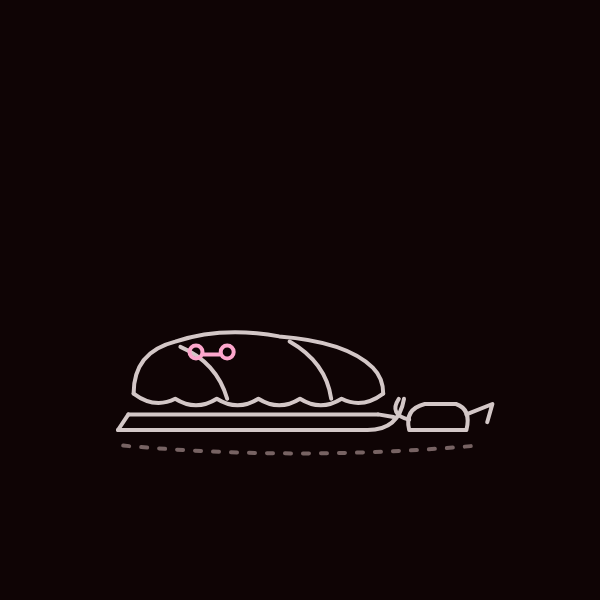
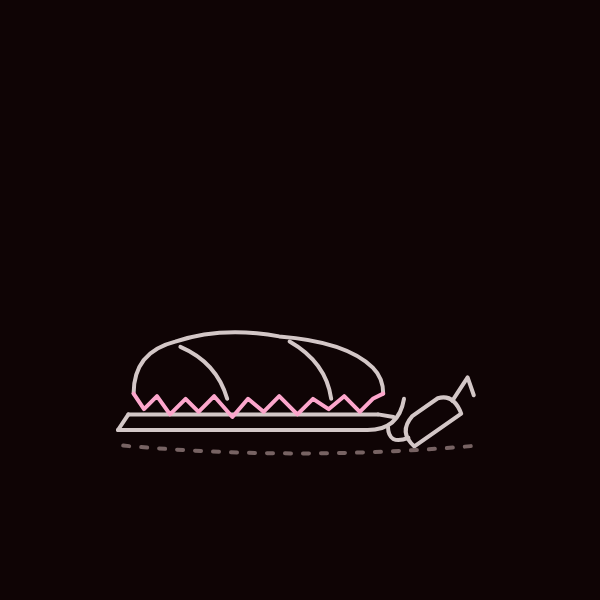
fix(thrones): draw Othor burned from his first drawing
Both media tell his corpse rising and Jon burning it in the episode and
chapter he opens in (The Pointy End, episode 8; Jon VII, site chapter
53), so the burnt cloak on the sled is his first drawing and the chapter
61 stage goes. The #1295 stage count in the architecture paragraph and
the generated counts follow.

Changed region(s): [[0.21, 0.63, 0.84, 0.75], [0.3, 0.57, 0.39, 0.6]]

diff --git a/src/data/series/game-of-thrones/art/wall.ts b/src/data/series/game-of-thrones/art/wall.ts
@@ -628,9 +628,6 @@ const SLED: Stroke[] = [
 const DRAPED_CLOAK = {
   d: 'M16 136 Q16 120 32 116 Q50 110 72 114 Q98 116 108 126 Q112 130 112 136',
 }
-const DRAPE_HEM: Stroke = {
-  d: 'M16 136 Q24 142 32 138 Q40 143 48 138 Q56 143 64 138 Q72 143 80 138 Q88 143 96 138 Q104 142 112 136',
-}
 const DRAPE_FOLDS: Stroke = {
   d: 'M34 118 Q48 124 52 138 M76 116 Q90 124 92 138',
   role: 'soft',
@@ -642,21 +639,22 @@ const LAMP: Stroke[] = [
 ]
 
 /**
- * Othor: his black cloak drawn over his body on a sled, an unlit lamp
- * beside it. Both media open him when the rangers bring him back dead, in
- * "The Pointy End" (episode 8) and Jon VII (chapter 53), so the drawing
- * shows what he left. The accent is the clasp.
+ * Othor: his black cloak drawn over his body on a sled, its hem burnt
+ * ragged, the lamp knocked over. Both media open him when the rangers bring
+ * him back dead, and both tell the same night his corpse rising and Jon
+ * burning it in the Lord Commander's rooms: "The Pointy End" (episode 8)
+ * and Jon VII (chapter 53). The drawing shows what that leaves. The accent
+ * is the burnt hem.
  */
-const SLED_BODY: Stroke[] = [
+const BURNT_CLOAK: Stroke[] = [
   ...SLED,
   DRAPED_CLOAK,
-  DRAPE_HEM,
-  DRAPE_FOLDS,
   {
-    d: `${circle(40, 120, 2.5)} ${circle(52, 120, 2.5)} M42.5 121 H49.5`,
+    d: 'M16 136 L20 142 L25 137 L30 144 L36 138 L41 143 L47 137 L54 145 L60 138 L66 143 L72 137 L79 144 L85 138 L91 142 L97 137 L103 143 L108 138 L112 136',
     role: 'accent',
   },
-  ...LAMP,
+  DRAPE_FOLDS,
+  ...moved(LAMP, 'rotate(-35 133 150)'),
   shadow(80, 156, 68),
 ]
 
@@ -682,7 +680,7 @@ export const WALL_DRAWINGS = {
   'othell-yarwyck': MASON_HAMMER,
   'bowen-marsh': LEDGER,
   'jaremy-rykker': SHEATHED_SWORD,
-  'othor': SLED_BODY,
+  'othor': BURNT_CLOAK,
 } satisfies Drawings
 
 /** The Night's Watch drawn again later in the story. */
@@ -938,28 +936,6 @@ export const wallRedrawn: Redrawings = {
         ),
         ...moved(RANGER_SCABBARD, 'translate(-2 40) rotate(-98 80 104)'),
         shadow(80, 156, 64),
-      ],
-    },
-  ],
-  'othor': [
-    // The same cloak, its hem burnt ragged, the lamp knocked over: he rises
-    // as a wight and Jon burns him in the Lord Commander's rooms in Jon VIII
-    // (chapter 61). The show tells it in his threshold episode, so the stage
-    // is the book's alone. The accent moves to the burnt hem.
-    {
-      episode: 8,
-      chapter: 61,
-      source: 'chapter',
-      value: [
-        ...SLED,
-        DRAPED_CLOAK,
-        {
-          d: 'M16 136 L20 142 L25 137 L30 144 L36 138 L41 143 L47 137 L54 145 L60 138 L66 143 L72 137 L79 144 L85 138 L91 142 L97 137 L103 143 L108 138 L112 136',
-          role: 'accent',
-        },
-        DRAPE_FOLDS,
-        ...moved(LAMP, 'rotate(-35 133 150)'),
-        shadow(80, 156, 68),
       ],
     },
   ],

diff --git a/src/server/archive/thronesSeason1.test.ts b/src/server/archive/thronesSeason1.test.ts
@@ -1413,7 +1413,7 @@ describe.each([
  * Heddle's the book's alone; and the later deaths of #1242, Stevron Frey's
  * and Hoster Tully's the book's alone; and the Night's Watch's of #1295,
  * Grenn's, Pypar's, Othell Yarwyck's and Bowen Marsh's the show's alone,
- * Gared's, Dareon's, Jaremy Rykker's and Othor's the book's alone, with
+ * Gared's, Dareon's and Jaremy Rykker's the book's alone, with
  * the mutiny against Jon), Barristan's thrown sword, Syrio's snapped
  * blade, and the reveals of Jorah's master, Aemon's house and Mirri's blood
  * magic, the Winterfell audit's deaths, returns, crown, Reek and Needle
@@ -1689,7 +1689,6 @@ const STAGES: {
   { id: 'bowen-marsh', episode: 50, chapter: 341 },
   { id: 'bowen-marsh', episode: 53, chapter: 344, source: 'episode', stage: 1 },
   { id: 'jaremy-rykker', episode: 8, chapter: 61, source: 'chapter' },
-  { id: 'othor', episode: 8, chapter: 61, source: 'chapter' },
   // The leads and the Essos cast redrawn from the drawing audit (#1292).
   { id: 'eddard-stark', episode: 31, chapter: 204, stage: 1 },
   { id: 'jon-snow', episode: 50, chapter: 341 },

diff --git a/src/test/series.ts b/src/test/series.ts
@@ -147,8 +147,9 @@ const EXPECTED: Record<string, Expected> = {
   // Landing, riverlands and Vale stories (#1362): 406 stories and 695
   // timelines. Chronicles, timelines and statuses counted 2026-11-20, after
   // the Winterfell and northern stories (#1361): 566 stories, 734 timelines
-  // and 260 statuses. Statuses counted 2026-11-21, after Othor's book gate
-  // moved to Jon VII and his alive entry went (#1425): 259.
+  // and 260 statuses. Statuses and timelines counted 2026-11-21, after Othor's
+  // book gate moved to Jon VII, his alive entry and his redrawings went
+  // (#1425): 259 statuses and 733 timelines.
   'game-of-thrones': {
     kinds: [
       'affiliation',
@@ -172,7 +173,7 @@ const EXPECTED: Record<string, Expected> = {
       linkedOrigins: 0,
       places: 60,
       statuses: 259,
-      timelines: 734,
+      timelines: 733,
       visits: 0,
     },
     namesSaidEarly: true,

diff --git a/docs/architecture.md b/docs/architecture.md
@@ -289,7 +289,7 @@ cast's are in `art/wall.ts` and `art/essos.ts` (#1052), with twenty, four of
 them the deaths of Jeor, Aemon, Alliser and Yoren from the drawing audit
 (#1290), six from the drawing audit (#1296) and four those of Jorah, Irri,
 Doreah and Rakharo (#1292), and thirteen more of the Watch's in `art/wall.ts`
-(#1295), with twelve, the places' are in `art/places.ts` (#1053), with fourteen
+(#1295), with ten, the places' are in `art/places.ts` (#1053), with fourteen
 stages for the damage and rebuilding later seasons and books give (#1236), the
 northern household's are in `art/north.ts` (#1054), with fifteen, twelve of them
 the deaths, Roose Bolton's allegiance and Jeyne Poole's false identity from the
@@ -489,7 +489,7 @@ checks this block.
 | Characters        | 148                                                     |
 | Places            | 60                                                      |
 | Saga modules      | 1                                                       |
-| Line drawings     | 208, one per record, plus 154 redrawings of 114 records |
+| Line drawings     | 208, one per record, plus 153 redrawings of 113 records |
 | Chronicle stories | 566, for 145 characters                                 |
 
 <!-- End of the generated counts. -->
